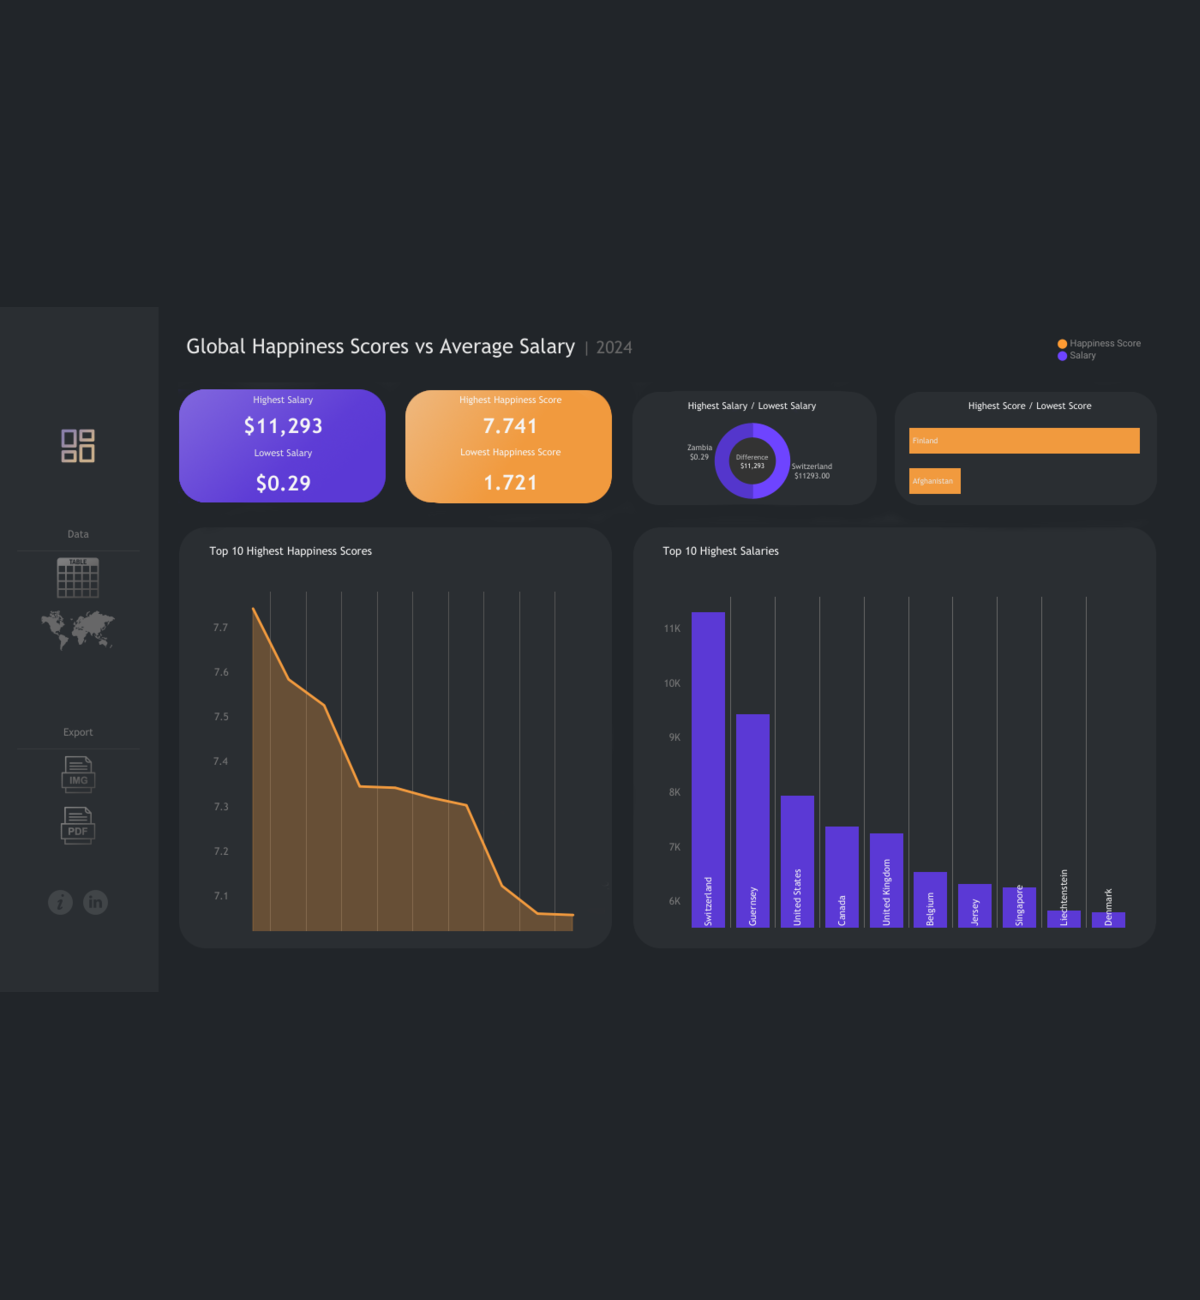
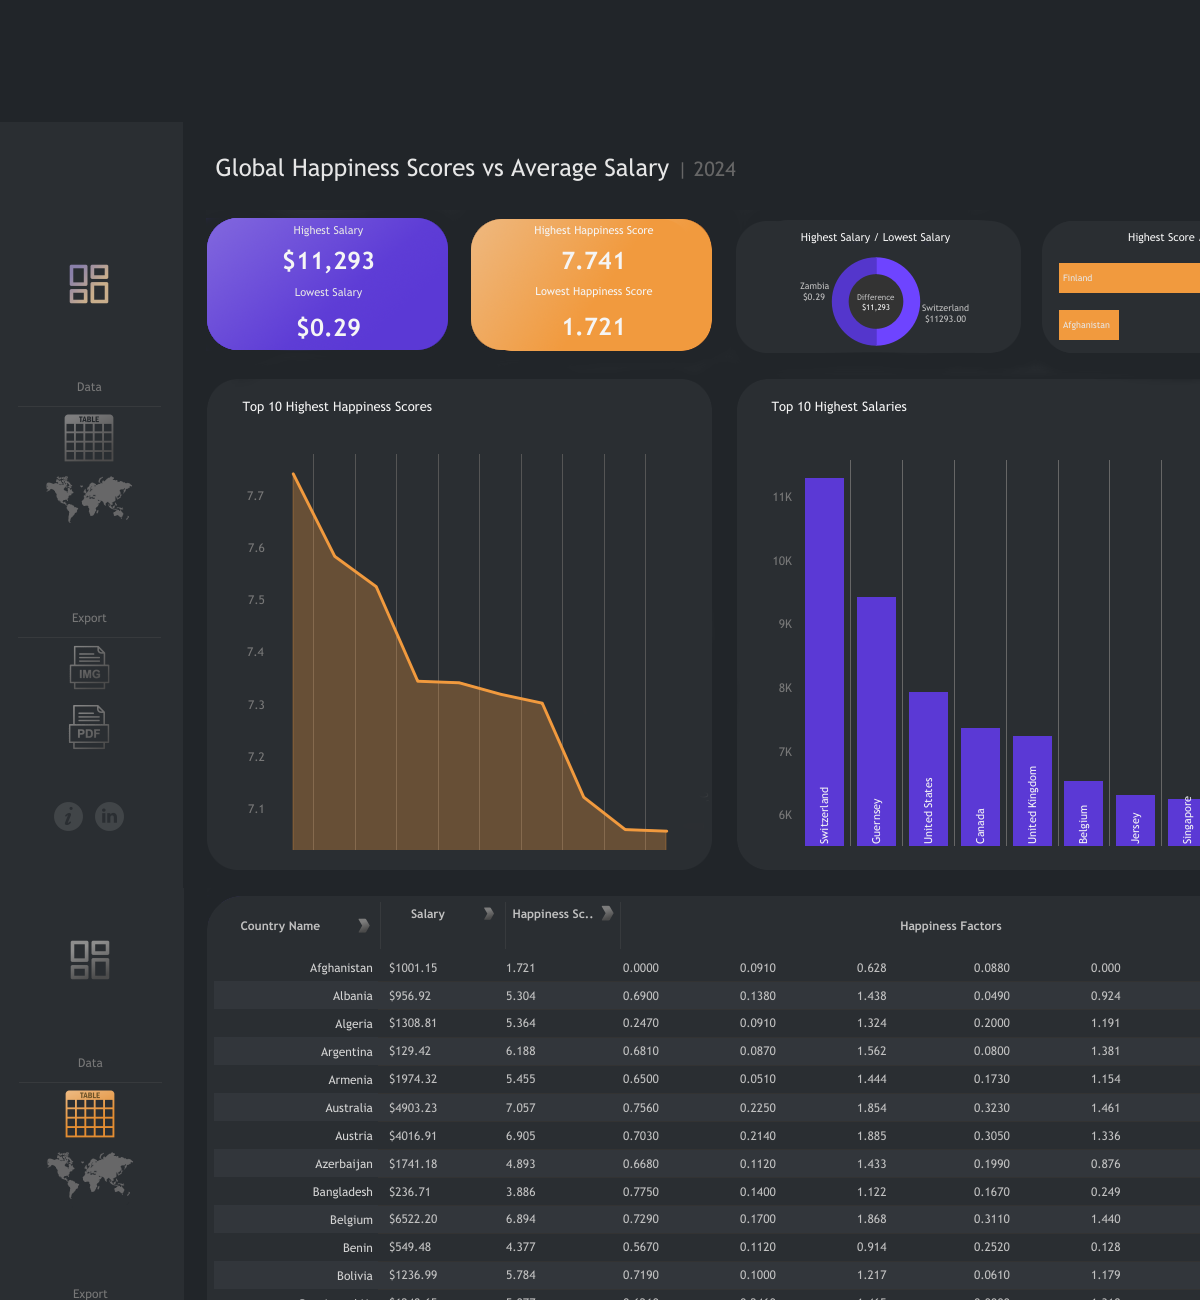
ch

diff --git a/index.html b/index.html
@@ -285,16 +285,16 @@
             <div class="column folio-item">
                 <a href="#modal-01" class="folio-item__thumb">
                     <img src="/images/portfolio/dash_600x650.png" 
-                         srcset="/dash_600x650.png 1x, 
-                                 /dash_1200x1300.png 2x" alt="">
+                         srcset="/images/portfolio/dash_600x650.png 1x, 
+                                 /images/portfolio/dash_1200x1300.png 2x" alt="">
                 </a>
             </div> <!-- end folio-item -->
 
             <div class="column folio-item">
                 <a href="#modal-02" class="folio-item__thumb">
-                    <img src="images/portfolio/lamp.jpg" 
-                         srcset="images/portfolio/lamp.jpg 1x, 
-                                 images/portfolio/lamp@2x.jpg 2x" alt="">
+                    <img src="images/portfolio/lego_600x650.png" 
+                         srcset="images/portfolio/lego_600x650.png 1x, 
+                                 images/portfolio/lego_1200x1300.png 2x" alt="">
                 </a>
             </div> <!-- end folio-item -->
 
@@ -321,34 +321,35 @@
         =========================================================== -->
         <div id="modal-01" hidden>
             <div class="modal-popup">
-                <img src="/hr_dash.png" alt="" />
+                <img src="/images/portfolio/dash_1200x1300.png" alt="" />
     
                 <div class="modal-popup__desc">
-                    <h5>Droplet</h5>
-                    <p>Odio soluta enim quos sit asperiores rerum rerum repudiandae cum. Vel voluptatem alias qui assumenda iure et expedita voluptatem. Ratione officiis quae.</p>
+                    <h5>Global Happiness vs Salary Tableau Dashboard</h5>
+                    <p>A Tableau dashboard to visualize data about the Global happiness scores per country and the salaries per country.</p>
                     <ul class="modal-popup__cat">
-                        <li>Branding</li>
-                        <li>Product Design</li>
+                        <li>Visualization</li>
+                        <li>Tableau</li>
                     </ul>
                 </div>
     
-                <a href="https://www.behance.net/" class="modal-popup__details">Project link</a>
+                <a href="https://public.tableau.com/app/profile/adam.nagy1854/viz/GlobalHappinessvsSalary/GlobalHappiness" class="modal-popup__details">Project link</a>
             </div>
         </div> <!-- end modal -->
 
         <div id="modal-02" hidden>
             <div class="modal-popup">
-                <img src="images/portfolio/gallery/g-lamp.jpg" alt="" />
+                <img src="/images/portfolio/lego_1200x1300.png" alt="" />
     
                 <div class="modal-popup__desc">
-                    <h5>The Lamp</h5>
-                    <p>Proin gravida nibh vel velit auctor aliquet. Aenean sollicitudin, lorem quis bibendum auctor, nisi elit consequat ipsum, nec sagittis sem nibh id elit.</p>
+                    <h5>Lego Dataset Analysis</h5>
+                    <p>An exploratory data analysis of a LEGO dataset using Pandas to examine trends in LEGO sets, themes, and piece counts over time.</p>
                     <ul class="modal-popup__cat">
-                        <li>Branding</li>
+                        <li>Exploratory Data Analysis</li>
+                        <li>Pandas</li>
                     </ul>
                 </div>
     
-                <a href="https://www.behance.net/" class="modal-popup__details">Project link</a>
+                <a href="https://github.com/adamxngy/lego_dataset_analysis" class="modal-popup__details">Project link</a>
             </div>
         </div> <!-- end modal -->
 
